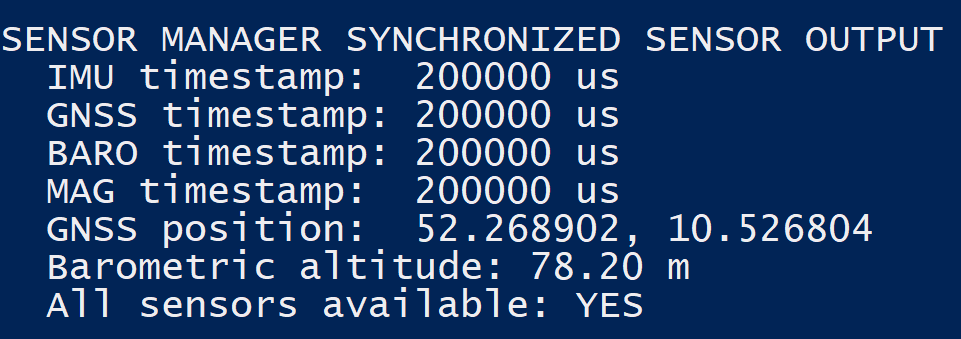
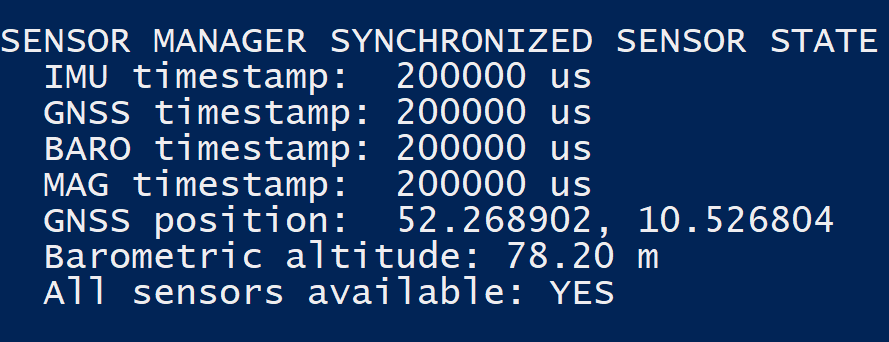
Update README add synchronized sensor state image

Changed region(s): [[0.0, 0.059, 1.0, 0.944]]

diff --git a/src/application/main.cpp b/src/application/main.cpp
@@ -185,7 +185,7 @@ int main()
                 sensor_manager.latestMagnetometer();
 
             std::cout
-                << "\nSENSOR MANAGER SYNCHRONIZED SENSOR OUTPUT\n"
+                << "\nSENSOR MANAGER SYNCHRONIZED SENSOR STATE\n"
                 << "  IMU timestamp:  "
                 << latest_imu.timestamp_us << " us\n"
                 << "  GNSS timestamp: "

diff --git a/README.md b/README.md
@@ -6,7 +6,7 @@ The project is designed as a portable, hardware-independent embedded avionics so
 
 ## Project Objectives
 
-- Develop modular drivers for IMU, GNSS, barometer, and air-data sensors.
+- Develop modular drivers for IMU, GNSS, barometer, and magnetometer sensors.
 - Decouple flight applications from hardware-specific sensor implementations.
 - Implement lightweight publish-subscribe middleware.
 - Detect stale, invalid, and unavailable sensor measurements.
@@ -16,18 +16,38 @@ The project is designed as a portable, hardware-independent embedded avionics so
 
 ## Current Development Phase
 
-Phase 1 focuses on a portable Windows-compatible C++ implementation using
-simulated avionics sensors and software-in-the-loop tests.
+The project currently implements a portable software-in-the-loop (SIL)
+embedded avionics software stack in modern C++17.
 
-Phase 2 will add PX4 SITL, uORB adapters, and NuttX-target validation on Ubuntu.
+Completed components include:
+
+- Modular simulated sensor drivers
+- Publish–Subscribe middleware
+- Multi-sensor synchronization through a Sensor Manager
+- Hardware-independent software architecture
+- CMake build system
+- Windows SIL validation
+
+The next development phase will introduce:
+
+- Sensor Health Monitoring
+- Platform abstraction (STM32, Linux, QNX)
+- PX4/uORB adapters
+- NuttX validation on Ubuntu
+- Real GNSS hardware integration
 
 ---
 
-## Planned Sensors
-- IMU
-- GNSS
-- Barometer
-- Air-data sensor
+## Implemented Sensors
+
+- ✅ IMU (100 Hz)
+- ✅ Magnetometer (50 Hz)
+- ✅ Barometer (25 Hz)
+- ✅ GNSS (10 Hz)
+
+Future:
+
+- ⬜ Air-data sensor
 
 ---
 
@@ -40,7 +60,7 @@ subgraph Sensors
 IMU
 GNSS
 Barometer
-AirData
+Magnetometer
 end
 
 subgraph Drivers
@@ -50,6 +70,9 @@ end
 subgraph Middleware
 MessageBus
 SensorManager
+end
+
+subgraph Services
 HealthMonitor
 TimeSynchronization
 end
@@ -63,11 +86,12 @@ end
 Sensors --> SensorDrivers
 SensorDrivers --> MessageBus
 MessageBus --> SensorManager
-SensorManager --> TimeSynchronization
-SensorManager --> HealthMonitor
 
-TimeSynchronization --> Navigation
+SensorManager --> HealthMonitor
+SensorManager --> TimeSynchronization
+
 HealthMonitor --> Navigation
+TimeSynchronization --> Navigation
 
 Navigation --> FlightController
 FlightController --> Telemetry
@@ -87,22 +111,115 @@ The first sensor driver has been implemented using a hardware-independent driver
 
 ### Publish–Subscribe Middleware
 
-The simulated IMU driver now publishes timestamped sensor samples through a lightweight publish–subscribe message bus. Subscribers receive sensor data without depending directly on the driver implementation, enabling future platform backends for PX4/uORB, STM32 RTOS queues, and QNX message passing.
+The embedded middleware implements a lightweight publish–subscribe architecture that decouples sensor drivers from higher-level avionics applications. Each sensor publishes timestamped measurements at its own sampling frequency, allowing multiple independent subscribers such as the Sensor Manager, telemetry modules, logging, and future navigation algorithms.
 
-<p align="center">
-  <img src="docs/images/middleware_imu_demo.png"
-       alt="IMU samples published through the avionics middleware"
-       width="900">
+Implemented publishing rates:
+
+IMU — 100 Hz
+Magnetometer — 50 Hz
+Barometer — 25 Hz
+GNSS — 10 Hz
+
+
+<p align="center"> 
+<img src="docs/images/middleware_output.png"  
+     alt="IMU samples published through the avionics middleware"
+     width="950">
 </p>
 
 ---
 
-## Technologies
-- C++17
-- CMake
-- Unit and integration testing
-- GitHub Actions
-- PX4/uORB integration planned
-- NuttX validation planned
+### Sensor Manager
+
+The Sensor Manager subscribes to all middleware topics and maintains the latest valid measurement from each sensor. It provides a synchronized system-wide sensor state that can later be consumed by navigation, flight-control, and health-monitoring modules.
+
+Current responsibilities include:
+
+- Latest valid sample management
+- Multi-sensor synchronization
+- Timestamp consistency
+- Centralized sensor access
+- Hardware-independent interface
+
+Future extensions:
+
+- Sensor health monitoring
+- Stale-data detection
+- Timestamp validation
+- Fault injection
+- Navigation interface
+
+<p align="center"> 
+<img src="docs/images/sensor_manager_demo.png" 
+	 alt="Sensor manager showing synchronized sensor state"
+	 width="750"> 
+</p>
 
 ---
+
+## Project Status
+
+### Completed
+
+- ✅ Modular C++17 project architecture
+- ✅ CMake build system
+- ✅ Hardware-independent sensor interfaces
+- ✅ Simulated IMU Driver (100 Hz)
+- ✅ Simulated Magnetometer Driver (50 Hz)
+- ✅ Simulated Barometer Driver (25 Hz)
+- ✅ Simulated GNSS Driver (10 Hz)
+- ✅ Publish–Subscribe Middleware
+- ✅ Multi-sensor Sensor Manager
+- ✅ Software-in-the-loop (SIL) validation
+
+### In Progress
+
+- Sensor Health Monitoring
+- Platform Abstraction Layer
+
+### Planned
+
+- ⬜ STM32 HAL platform
+- ⬜ Linux/POSIX platform
+- ⬜ QNX platform
+- ⬜ PX4/uORB adapter
+- ⬜ NuttX integration
+- ⬜ Real GNSS hardware driver
+- ⬜ Air-data sensor
+
+---
+
+
+## Technologies
+
+- C++17
+- CMake
+- Publish–Subscribe Middleware
+- Software-in-the-loop (SIL)
+- Modular Sensor Drivers
+- Git
+- GitHub Actions (planned)
+- PX4/uORB (planned)
+- NuttX (planned)
+- STM32 HAL (planned)
+- Linux/POSIX (planned)
+- QNX (planned)
+
+---
+
+## 👤 Author
+
+**Vasan Iyer**  
+GNC / Embedded Systems Engineer  
+
+Focus areas:
+ 
+- Embedded systems (C++, Python) 
+- GNC
+- Flight dynamics & control  
+- Sensor fusion & state estimation  
+- Autonomous systems  
+- UAV systems 
+
+
+GitHub: https://github.com/Vaiy108
